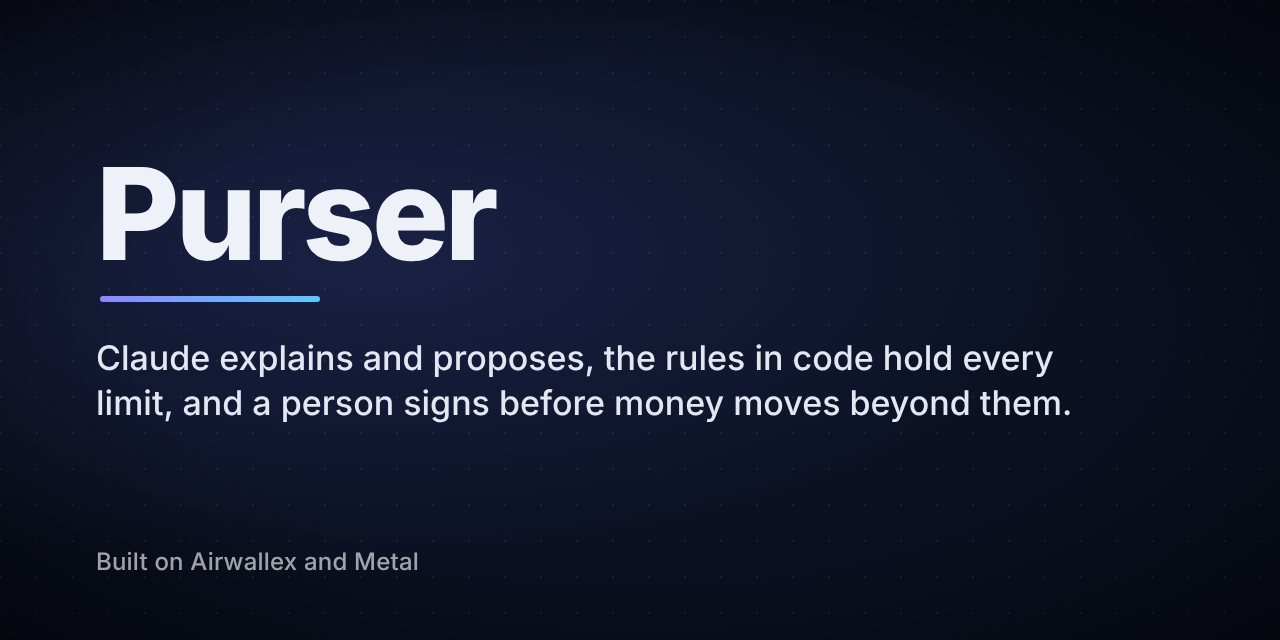
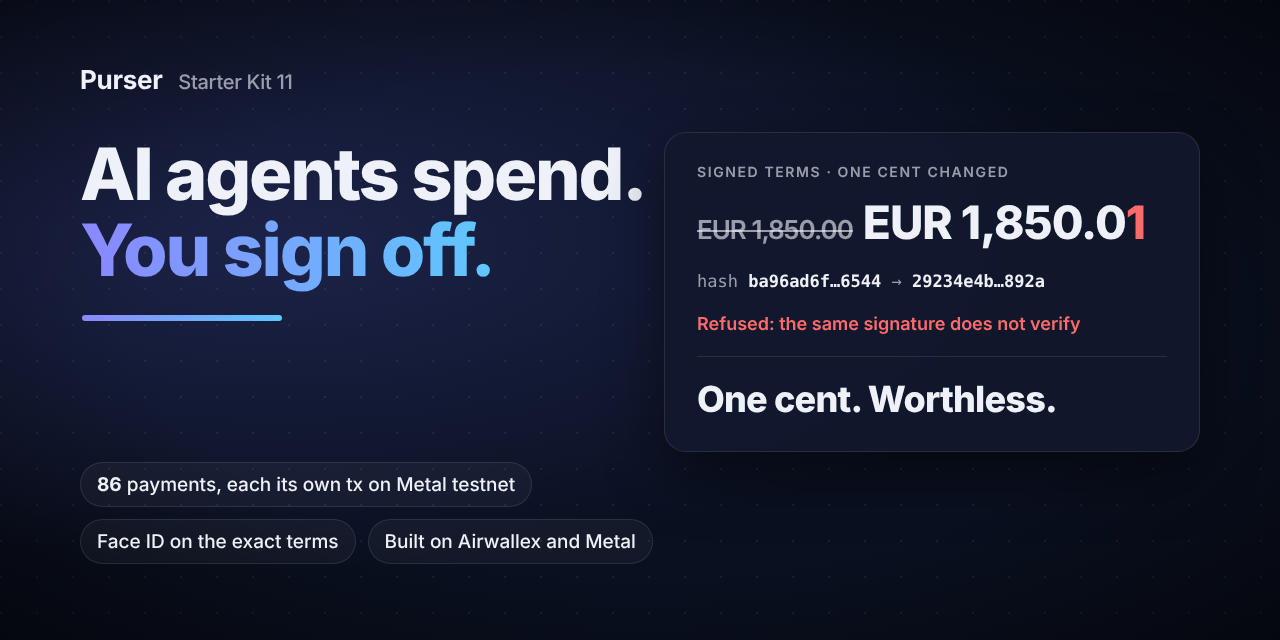
Social preview v2: 'AI agents spend. You sign off.', the one-cent card and three chips; reproducible from docs/media/social-preview.html (npm run social-preview), the 86 Metal payments counted from the record
Claude-Session: https://claude.ai/code/session_017bq3Bxz45idsGUgFJjRs4G

diff --git a/docs/media/social-preview.html b/docs/media/social-preview.html
@@ -1,0 +1,72 @@
+<!doctype html>
+<!--
+  Purser · GitHub social preview, 1280×640. Source of docs/media/social-preview.png: `npm run social-preview`
+  (src/cli/socialPreview.ts) fills the double-brace placeholders and renders this page with Playwright.
+
+  - metal.payments: the main run's payments on Metal, each its own transaction on Metal testnet, counted from
+    docs/demo/main-run.json (src/submission/socialPreview.ts, metalPaymentCount). Never typed here.
+  - The card is an example from a /try/sign test world: the fixed test proposal (EUR 1,850.00 to a test payee), the same
+    terms with the amount plus 0.01, and their SHA-256 terms hashes in an example world (as in the film's one-cent scene).
+    Nothing real moved.
+  - Text only: no logos of others.
+-->
+<html lang="en">
+<head>
+<meta charset="utf-8">
+<style>
+  @font-face { font-family: Inter; src: url("{{font}}") format("woff2"); font-weight: 100 900; }
+  :root { --bg: #0a1020; --ink: #eef1f8; --muted: rgba(238, 241, 248, .62); --line: rgba(255, 255, 255, .10);
+          --accent: #8b87ff; --accent2: #5ec8ff; --red: #ff6b6b; --green: #34d399; }
+  html, body { margin: 0; width: 1280px; height: 640px; }
+  body { background: var(--bg); color: var(--ink); font-family: Inter, sans-serif; position: relative; overflow: hidden;
+         background-image: radial-gradient(circle at 1px 1px, rgba(255, 255, 255, .07) 1px, transparent 0);
+         background-size: 36px 36px; }
+  .glow { position: absolute; inset: 0;
+          background: radial-gradient(ellipse at 22% 38%, rgba(110, 120, 255, .18), transparent 58%),
+                      radial-gradient(ellipse at center, transparent 55%, rgba(0, 0, 0, .55)); }
+  .brand { position: absolute; left: 80px; top: 64px; font-size: 26px; font-weight: 700; letter-spacing: -.3px; }
+  .brand span { color: var(--muted); font-weight: 500; margin-left: 10px; font-size: 20px; }
+  .head { position: absolute; left: 80px; top: 136px; width: 600px; }
+  h1 { margin: 0; font-size: 72px; line-height: 1.06; font-weight: 800; letter-spacing: -2.2px; }
+  h1 em { font-style: normal; background: linear-gradient(90deg, var(--accent), var(--accent2));
+          -webkit-background-clip: text; background-clip: text; color: transparent; }
+  .pen { margin: 26px 0 0 2px; width: 200px; height: 6px; border-radius: 3px;
+         background: linear-gradient(90deg, var(--accent), var(--accent2)); }
+  .chips { position: absolute; left: 80px; bottom: 76px; display: flex; gap: 12px; flex-wrap: wrap; width: 620px; }
+  .chip { font-size: 19px; font-weight: 500; padding: 10px 16px; border-radius: 999px; border: 1px solid var(--line);
+          background: rgba(255, 255, 255, .04); color: var(--ink); white-space: nowrap; }
+  .chip b { font-weight: 700; }
+  .card { position: absolute; right: 80px; top: 132px; width: 470px; padding: 30px 32px; border-radius: 22px;
+          background: rgba(17, 24, 44, .92); border: 1px solid var(--line); box-shadow: 0 24px 60px rgba(0, 0, 0, .45); }
+  .label { font-size: 14px; letter-spacing: 1.6px; text-transform: uppercase; color: var(--muted); font-weight: 600; }
+  .amount { margin-top: 14px; font-size: 46px; font-weight: 800; letter-spacing: -1px; }
+  .amount s { color: var(--muted); font-weight: 600; font-size: 26px; text-decoration-thickness: 2px; margin-right: 10px; }
+  .amount .cent { color: var(--red); }
+  .hash { margin-top: 18px; font: 500 17px/1.6 ui-monospace, SFMono-Regular, Menlo, monospace; color: var(--muted); }
+  .hash b { color: var(--ink); font-weight: 600; }
+  .refused { margin-top: 18px; font-size: 18px; color: var(--red); font-weight: 600; }
+  .worthless { margin-top: 22px; padding-top: 20px; border-top: 1px solid var(--line); font-size: 36px; font-weight: 800;
+               letter-spacing: -.8px; }
+</style>
+</head>
+<body>
+  <div class="glow"></div>
+  <div class="brand">Purser <span>Starter Kit 11</span></div>
+  <div class="head">
+    <h1>AI agents spend.<br><em>You sign off.</em></h1>
+    <div class="pen"></div>
+  </div>
+  <div class="chips">
+    <div class="chip"><b>{{metal.payments}}</b> payments, each its own tx on Metal testnet</div>
+    <div class="chip">Face ID on the exact terms</div>
+    <div class="chip">Built on Airwallex and Metal</div>
+  </div>
+  <div class="card">
+    <div class="label">Signed terms · one cent changed</div>
+    <div class="amount"><s>EUR 1,850.00</s>EUR 1,850.0<span class="cent">1</span></div>
+    <div class="hash">hash <b>ba96ad6f…6544</b> → <b>29234e4b…892a</b></div>
+    <div class="refused">Refused: the same signature does not verify</div>
+    <div class="worthless">One cent. Worthless.</div>
+  </div>
+</body>
+</html>

diff --git a/test/social-preview.test.ts b/test/social-preview.test.ts
@@ -1,0 +1,49 @@
+import { readFileSync } from "node:fs";
+import { describe, expect, it } from "vitest";
+import { trySignExample } from "../src/film/premiere.js";
+import { SOCIAL_HTML, SOCIAL_PNG, SOCIAL_SIZE, loadRecord, metalPaymentCount, socialPreviewHtml } from "../src/submission/socialPreview.js";
+
+// The GitHub social preview: its figures come from the record and the /try/sign code, not typed into the template.
+const root = new URL("../", import.meta.url);
+const template = readFileSync(new URL(SOCIAL_HTML, root), "utf8");
+const record = loadRecord(root);
+const filled = socialPreviewHtml(template, record, "data:font/woff2;base64,");
+const text = (html: string) => html.replace(/<!--[\s\S]*?-->/g, "").replace(/<style[\s\S]*?<\/style>/, "").replace(/<[^>]+>/g, " ").replace(/\s+/g, " ");
+
+describe("social preview", () => {
+  it("counts 86 payments on Metal testnet in the main run, each with its own tx", () => {
+    expect(metalPaymentCount(record)).toBe(86);
+  });
+
+  it("shows that count on its chip, and the template types no count of its own", () => {
+    expect(text(filled)).toContain(`${metalPaymentCount(record)} payments, each its own tx on Metal testnet`);
+    expect(text(template)).toContain("{{metal.payments}} payments");
+    expect(text(template)).not.toMatch(/\b86\b/);
+  });
+
+  it("refuses to render when a figure is missing", () => {
+    expect(() => socialPreviewHtml(template, { snapshot: { flows: [] } }, "x")).toThrow(/metal\.payments/);
+  });
+
+  it("carries the hook, the one cent and the /try/sign example terms (amounts and hashes from the page's code)", () => {
+    const t = text(filled);
+    const ex = trySignExample();
+    const eur = (v: string | number) => `EUR ${Number(v).toLocaleString("en-US", { minimumFractionDigits: 2 })}`;
+    expect(t).toContain("AI agents spend. You sign off.");
+    expect(t).toContain("One cent. Worthless.");
+    expect(t).toContain(eur(ex.p.amount));
+    expect(filled.replace(/<[^>]+>/g, "")).toContain(eur(ex.tamperedAmount));
+    expect(t).toContain(`${ex.hash.slice(0, 8)}…${ex.hash.slice(-4)}`);
+    expect(t).toContain(`${ex.tamperedHash.slice(0, 8)}…${ex.tamperedHash.slice(-4)}`);
+    expect(template).toMatch(/example from a \/try\/sign test world/);
+  });
+
+  it("uses text only: no images or logos", () => {
+    expect(template.replace(/<!--[\s\S]*?-->/g, "")).not.toMatch(/<img|<svg|logo|url\(https?:/i);
+  });
+
+  it("is rendered at 1280×640", () => {
+    const png = readFileSync(new URL(SOCIAL_PNG, root));
+    expect([png.readUInt32BE(16), png.readUInt32BE(20)]).toEqual([SOCIAL_SIZE.width, SOCIAL_SIZE.height]);
+  });
+});

diff --git a/src/submission/socialPreview.ts b/src/submission/socialPreview.ts
@@ -1,0 +1,35 @@
+// The GitHub social preview (1280×640): docs/media/social-preview.html is the source, docs/media/social-preview.png the
+// rendered image (`npm run social-preview`). Every figure on it is filled in here from the main run's record; the
+// template types none. test/social-preview.test.ts checks the count and the template.
+
+import { readFileSync } from "node:fs";
+
+export const SOCIAL_HTML = "docs/media/social-preview.html";
+export const SOCIAL_PNG = "docs/media/social-preview.png";
+export const SOCIAL_SIZE = { width: 1280, height: 640 } as const;
+const MAIN_RUN = "docs/demo/main-run.json";
+
+interface Flow { rail?: string; refused?: boolean; count?: number; proof?: { href?: string } }
+interface Record { snapshot: { flows: Flow[] } }
+
+/**
+ * The main run's payments on Metal, each its own transaction on Metal testnet: the record's flows on the Metal rail that
+ * went through and carry a testnet tx link, counted (`count` per row). The same count as the film's 06-metal card.
+ */
+export function metalPaymentCount(r: Record): number {
+  return r.snapshot.flows
+    .filter((f) => f.rail === "metal" && !f.refused && /^https:\/\/testnet\.metal/.test(f.proof?.href ?? ""))
+    .reduce((k, f) => k + (f.count ?? 1), 0);
+}
+
+/** The template with its {{placeholders}} filled from the record; throws when a figure is missing. */
+export function socialPreviewHtml(template: string, record: Record, fontUrl: string): string {
+  const facts: { [k: string]: string } = { "metal.payments": String(metalPaymentCount(record) || ""), font: fontUrl };
+  return template.replace(/\{\{([\w.]+)\}\}/g, (_, key: string) => {
+    const v = facts[key];
+    if (!v) throw new Error(`social preview: no value for {{${key}}}`);
+    return v;
+  });
+}
+
+export const loadRecord = (root: URL): Record => JSON.parse(readFileSync(new URL(MAIN_RUN, root), "utf8")) as Record;

diff --git a/src/cli/socialPreview.ts b/src/cli/socialPreview.ts
@@ -1,0 +1,18 @@
+// npm run social-preview: renders docs/media/social-preview.html (figures from the main run's record) to
+// docs/media/social-preview.png at 1280×640 with Playwright, as the deck and the QR code are rendered.
+
+import { readFileSync, writeFileSync } from "node:fs";
+import { chromium } from "playwright";
+import { SOCIAL_HTML, SOCIAL_PNG, SOCIAL_SIZE, loadRecord, socialPreviewHtml } from "../submission/socialPreview.js";
+
+const root = new URL("../../", import.meta.url);
+const font = `data:font/woff2;base64,${readFileSync(new URL("src/ui/inter.woff2", root)).toString("base64")}`;
+const html = socialPreviewHtml(readFileSync(new URL(SOCIAL_HTML, root), "utf8"), loadRecord(root), font);
+
+const browser = await chromium.launch();
+const page = await browser.newPage({ viewport: SOCIAL_SIZE, deviceScaleFactor: 1 });
+await page.setContent(html, { waitUntil: "load" });
+await page.evaluate(() => document.fonts.ready);
+writeFileSync(new URL(SOCIAL_PNG, root), await page.screenshot({ type: "png" }));
+await browser.close();
+console.log(`social preview: ${SOCIAL_PNG} (${SOCIAL_SIZE.width}×${SOCIAL_SIZE.height})`);

diff --git a/docs/video/premiere-script.md b/docs/video/premiere-script.md
@@ -23,7 +23,7 @@ How to cut it, where the music goes and what Max records: [README.md](README.md)
[2 lines of base64/hex data omitted]
 | 2:04–2:16 | `12-why-face-id.mp4` (12 s) | The question, then the answer in one sentence. | **Why Face ID, not a password?**<br>A password is the same for every payment; Face ID signs the hash of these exact terms: change anything after signing, and the signature is worthless. | Why Face ID, and not a password?<br>A password is the same for every payment; Face ID signs these exact terms: change anything, and the signature is worthless. | No figure. The reason: docs/phone-approval.md ("The passkey signs the SHA-256 of the exact terms … any change after signing makes it worthless"); README.md, Words ("the CFO's Face ID signs that hash"). "Password", not "PIN": a passkey may itself be unlocked with the device's PIN, or Touch ID (README.md, Try it yourself); what counts is that it signs these exact terms, so the film does not say Face ID is required. |
-| 2:16–2:32 | `13-specs.mp4` (16 s) | Four fast cards, the big figures counting up to the record's: the tests, the hash-chained audit log, Metal's refusal and the CFO's rejection side by side, decisions by Claude. | **2342** tests, all passing (npx vitest run · CI runs the same suite on every push)<br>**412** audit rows, hash-chained (chain intact · check it yourself: npm run verify)<br>**1 + 1** Metal refused 1 purchase over its cap; the CFO rejected 1 proposal. (in the main run)<br>**24/24** decisions by Claude (Sourcing 11 · Support 4 · Treasury 9 · 0 fallbacks) | All tests passing.<br>An audit log, hash-chained: check it yourself.<br>Metal refused one purchase over its cap; the CFO rejected one proposal.<br>Twenty-four of twenty-four decisions by Claude. | tests = `2342`: README.md's test line, read when the film is built (CI runs the same suite)<br>files = `247`: README.md's test line<br>auditRows = `412`: record `snapshot.audit.rows`, with `intact: true`<br>stopped = `2`: record `ledger.events`: Metal's refusals at the cap (`upstream.refused`, `mandate_cap_exceeded`), the CFO's rejections (`proposal.rejected`), Airwallex's declines (`card.charge_declined`); a refusal of a just-replaced mandate (`mandate_revoked`) is not a limit<br>stoppedMetal = `1`: record `ledger.events` `upstream.refused` by Metal, `mandate_cap_exceeded`<br>stoppedCfo = `1`: record `ledger.events` `proposal.rejected` with Max's passkey<br>stoppedAirwallex = `0`: record `ledger.events` `card.charge_declined`<br>decisions = `24`: record `snapshot.agent_stats[].decisions` (summed)<br>byClaude = `24`: record `snapshot.agent_stats[].by_claude` (summed)<br>fallbacks = `0`: record `snapshot.agent_stats[].fallback` (summed)<br>sourcing = `11`: record `snapshot.agent_stats` (sourcing)<br>support = `4`: record `snapshot.agent_stats` (support)<br>treasury = `9`: record `snapshot.agent_stats` (treasury) |
+| 2:16–2:32 | `13-specs.mp4` (16 s) | Four fast cards, the big figures counting up to the record's: the tests, the hash-chained audit log, Metal's refusal and the CFO's rejection side by side, decisions by Claude. | **2348** tests, all passing (npx vitest run · CI runs the same suite on every push)<br>**412** audit rows, hash-chained (chain intact · check it yourself: npm run verify)<br>**1 + 1** Metal refused 1 purchase over its cap; the CFO rejected 1 proposal. (in the main run)<br>**24/24** decisions by Claude (Sourcing 11 · Support 4 · Treasury 9 · 0 fallbacks) | All tests passing.<br>An audit log, hash-chained: check it yourself.<br>Metal refused one purchase over its cap; the CFO rejected one proposal.<br>Twenty-four of twenty-four decisions by Claude. | tests = `2348`: README.md's test line, read when the film is built (CI runs the same suite)<br>files = `248`: README.md's test line<br>auditRows = `412`: record `snapshot.audit.rows`, with `intact: true`<br>stopped = `2`: record `ledger.events`: Metal's refusals at the cap (`upstream.refused`, `mandate_cap_exceeded`), the CFO's rejections (`proposal.rejected`), Airwallex's declines (`card.charge_declined`); a refusal of a just-replaced mandate (`mandate_revoked`) is not a limit<br>stoppedMetal = `1`: record `ledger.events` `upstream.refused` by Metal, `mandate_cap_exceeded`<br>stoppedCfo = `1`: record `ledger.events` `proposal.rejected` with Max's passkey<br>stoppedAirwallex = `0`: record `ledger.events` `card.charge_declined`<br>decisions = `24`: record `snapshot.agent_stats[].decisions` (summed)<br>byClaude = `24`: record `snapshot.agent_stats[].by_claude` (summed)<br>fallbacks = `0`: record `snapshot.agent_stats[].fallback` (summed)<br>sourcing = `11`: record `snapshot.agent_stats` (sourcing)<br>support = `4`: record `snapshot.agent_stats` (support)<br>treasury = `9`: record `snapshot.agent_stats` (treasury) |
 | 2:32–2:45 | `14-real.mp4` (13 s) | Two columns: real (test money) and ours or simulated. | **Real** (test money only): the Airwallex sandbox, Metal testnet, Claude, Face ID<br>**Ours or simulated:** the suppliers, the customer, the merchant, the second approver: a labelled test passkey | Real: the Airwallex sandbox, Metal testnet, Claude, and Face ID.<br>Ours, or simulated: the suppliers, the customer, the merchant, and the second approver, a labelled test passkey. | No figure. README.md, "What is real, what is mock"; docs/claims.md (the second approver: `SECOND_APPROVER` in src/config/brand.ts). |
 | 2:45–2:59 | `15-close.mp4` (14 s) | **Slot.** Max on camera with his name (overlay `15-close.png`), or his voice over the rendered card with the closing line.<br>Recording: Max on camera, or his voice only (docs/video/opnames-max.md, 2). | Fallback card: A price shock, a dispute, a euro bill. Claude decided, the rails and the code held the limits, and I signed only what went beyond them. Purser, Starter Kit 11.<br>Name (on camera): Max Geurtsen · Purser · Starter Kit 11 | **Max:** A price shock, a dispute, a euro bill.<br>**Max:** Claude decided, the rails and the code held the limits, and I signed only what went beyond them.<br>**Max:** Purser, Starter Kit 11. | No figure. Max's closing (docs/video/max-opening-close.md, "Slot"); what it says of the run: see the 13-specs and 05–09 rows, and the Face ID decisions below. |
 | 2:59–3:12 | `16-end.mp4` (13 s) | End card: “Try it yourself” and the /try/sign address, test money; after four seconds it gives way to the end credits (9 s, text only, no logos): thank you, built by, voice and music, test money only. | **Try it yourself** · https://kit11.max-31b.workers.dev/try/sign<br>Test money only: the Airwallex sandbox and Metal testnet.<br>Purser · Starter Kit 11<br>End credits: Thank you Airwallex · Metal · Anthropic (Claude) · and the hackathon organisers and mentors · Built by Max Geurtsen · “Voice: Max Geurtsen · Music: Techno Fest Vibes (Mixkit)” (or, with an AI voice, clip `16-end-ai-voice.mp4`: “Voice-over: an AI-generated voice · opening and closing: Max Geurtsen · Music: Techno Fest Vibes (Mixkit)”) · Test money only | — | No figure. The address: the hosted /try/sign (live since 4 November). The credits: who the film thanks and who made it (Max, premiere v3); the music: Mixkit track 124, Mixkit Stock Music Free License. |
@@ -32,7 +32,7 @@ How to cut it, where the music goes and what Max records: [README.md](README.md)
 
 - **6 seconds from Face ID to PAID:** record `ledger.events`: 11:31:18.218 (Face ID, seq 360) to 11:31:24.283 (PAID, seq 366), rounded. The run log's timings say the same. PAID is the sandbox's status, and the settlement is simulated: Purser moves the transfer to SENT and then PAID itself, through Airwallex's sandbox simulation API (`settleInSandbox`, src/executors/invoicePayment.ts). The scene says so on screen and in the voice-over, and points to /proof instead of asking anyone to look the sandbox id up.
 - **Metal 1 + the CFO 1:** the spec card says the two stops as what they were (Metal refused a purchase over its cap; the CFO rejected a proposal), with Airwallex 0; together the 2 stopped at a limit that the site, the README and the video script count (`test/premiere.test.ts` compares it with `src/redesign/run.ts`). Not in the film, because it is another run's: the line the site shows below that figure, about the separate TAP run of 2 November.
-- **The tests:** the README's test line, read when the film is built (2342 tests in 247 files when this file was generated). Render the spec cards again after the README's line changes: `npm run video -- 13-specs`.
+- **The tests:** the README's test line, read when the film is built (2348 tests in 248 files when this file was generated). Render the spec cards again after the README's line changes: `npm run video -- 13-specs`.
 - **Max's closing line** ("Claude decided … I signed only what went beyond them"): 24 of 24 decisions by Claude; 5 decisions with Max's Face ID (record `ledger.events` `proposal.approved` and `proposal.rejected` with Max's passkey (proposals counted once)).
 - **Face ID (08) is a reconstruction:** the rendered approval sheet carries P-0005's exact terms from the record, and says on screen that it is a reconstruction and when the real Face ID was (the record's `proposal.approved`). Max's own recording of a real Face ID can still be laid in with `--slot`.
 - **Face ID, not a password:** the reason is the docs' own (docs/phone-approval.md); "password", because a passkey may itself be unlocked with a PIN. The film does not say the server proves Face ID: /try/sign checks no attestation (docs/claims.md), so it says the server checks the signature.

diff --git a/docs/claims.md b/docs/claims.md
@@ -55,7 +55,7 @@ displays was not checked.
 | Red team | 39 of 39 failed, 0 inconclusive: 37 stopped before anything moved, 2 found afterwards (a hidden card charge by the reconciliation, a rewritten log row by `npm run verify`); 35 scripted attacks and 4 documents written by Claude Opus as the attacker, in a throwaway test world (30 Oct). Then three runs in a row on 31 Oct: 118 of 120 failed, 2 inconclusive (bank-change notices the classifier read as data corrections: nothing was paid or changed, but not counted as stopped; [runs](runs/redteam-2026-10-31/README.md)) | `docs/redteam/report.json` (30 Oct; `caught` per attempt) | The harness now gives every attempt an outcome, and inconclusive never counts as blocked. The task card is tested at a hotel while still fresh (`MERCHANT_CATEGORY_NOT_ALLOWED`). The revoked agent is named correctly. The film's "thirty-four" is now thirty-nine. |
 | Duplicate invoices | A paid invoice sent again as "btx-dup" or with an en dash is refused | `test/invoice-duplicate-key.test.ts`; red team document 4 | Found by the red team and fixed. |
 | Scenario Lab | 18 of 18 as expected | `docs/lab/results.json` | hardening.md said 12. |
-| Tests | 2342 in 247 files, all passing (5 Nov) | `npx vitest run` | Was 2291 in 245 files (4 Nov, tag v1.0-submission); 1074 in 136 files (31 Oct). |
+| Tests | 2348 in 248 files, all passing (5 Nov) | `npx vitest run` | Was 2291 in 245 files (4 Nov, tag v1.0-submission); 1074 in 136 files (31 Oct). |
 | `/try/sign`: "Try it yourself: sign with your own Face ID" | A test world per visitor for one hour, with stand-in executors (nothing reaches Airwallex or Metal) and fixed-text proposals (no model call); its own store (Durable Object instance `try-sign`, `ts_*` tables), apart from the CFO's. Real: the visitor's passkey signature over the SHA-256 of the canonical terms, and the Worker's check with the D20 verifier against the public key the visitor's device registered. Not proven: which authenticator made the key (attestation "none": a software key verifies too), so the page never says the server proved Face ID. A test passkey is not enrolled anywhere else, so it approves nothing real and opens no session. Behind `TRY_SIGN_ENABLED`; **live since 4 November 2026** (the Worker deploy of commit `852b323`, flag on) at https://kit11.max-31b.workers.dev/try/sign | `worker/src/trySign.ts`; `test/try-sign.test.ts`, `test/try-sign-separation.test.ts`; `test/browser/trysign.check.ts` (360, 390 and 1440 px, light and dark, in CI since 5 November; the layout checked after signing and after the tamper: no wider than the screen, nothing outside its card; with `--live` against the hosted site, green on 4 November: passkey made, the waiting proposal signed and verified, the tampered amount refused, the blocked one without a button) | New, 4 November |
 | `/health` for anyone | Between live runs (no runner sync for 30 minutes and no live run declared with the Worker variable `LIVE_RUN`): 200, "Recorded demo · the live runner runs during live runs", with the alarm codes that stood at the runner's last sync. During a live run: 503 on `runner_down` or any alarm, as before. `/health/live` is that alarm at all times, for a monitor and the CFO | `src/ops/publicHealth.ts` (`publicStatus`, `LIVE_RUN_EXPECTED_MS`); `test/health.test.ts` | New, 4 November; live with the next deploy (until then `/health` answers 503 `runner_down` whenever the runner is off) |
 | Speed limit (Sourcing agent) | 30 payments a minute, 4.00 test USD an hour | `src/config/policy.ts` `VELOCITY` | Kept on purpose, above the busiest minute of the recorded run (18). |

diff --git a/README.md b/README.md
@@ -4,7 +4,7 @@
 **[Sign one yourself](https://kit11.max-31b.workers.dev/try/sign)** · Film, 3 minutes: <!-- VIDEO-LINK -->_the link is
 added on submission day_ · [The run, replayed](https://kit11.max-31b.workers.dev/watch)
 
-[![CI](https://github.com/agamemnon-coder/x402-business-agents/actions/workflows/ci.yml/badge.svg?branch=main)](https://github.com/agamemnon-coder/x402-business-agents/actions/workflows/ci.yml?query=branch%3Amain) [![License: MIT](https://img.shields.io/badge/license-MIT-blue)](LICENSE) [![Tests: 2342 passing](https://img.shields.io/badge/tests-2342%20passing-brightgreen)](#run-it-in-3-commands) [![Live demo: /try/sign](https://img.shields.io/badge/live%20demo-%2Ftry%2Fsign-7c6cff)](https://kit11.max-31b.workers.dev/try/sign) ![Metal testnet · Airwallex sandbox](https://img.shields.io/badge/Metal%20testnet%20%C2%B7%20Airwallex%20sandbox-test%20money%20only-555)
+[![CI](https://github.com/agamemnon-coder/x402-business-agents/actions/workflows/ci.yml/badge.svg?branch=main)](https://github.com/agamemnon-coder/x402-business-agents/actions/workflows/ci.yml?query=branch%3Amain) [![License: MIT](https://img.shields.io/badge/license-MIT-blue)](LICENSE) [![Tests: 2348 passing](https://img.shields.io/badge/tests-2348%20passing-brightgreen)](#run-it-in-3-commands) [![Live demo: /try/sign](https://img.shields.io/badge/live%20demo-%2Ftry%2Fsign-7c6cff)](https://kit11.max-31b.workers.dev/try/sign) ![Metal testnet · Airwallex sandbox](https://img.shields.io/badge/Metal%20testnet%20%C2%B7%20Airwallex%20sandbox-test%20money%20only-555)
 
 **A supplier doubles its price. A customer disputes 12 orders. A €240 bill is due in euros.** Three Claude agents run a
 small data business on 20 test dollars through Metal and Airwallex; the CFO signed 5 times with Face ID. One live run,
@@ -117,7 +117,7 @@ npm test          # the full suite, on stand-ins
 npm run judge     # the main run's replay, the CFO dashboard and the Scenario Lab, offline
 ```
 
-**2342 tests in 247 files, all passing** (`npx vitest run`, 5 November; 2291 in 245 at the tag `v1.0-submission`); CI runs the same suite on
+**2348 tests in 248 files, all passing** (`npx vitest run`, 5 November; 2291 in 245 at the tag `v1.0-submission`); CI runs the same suite on
 every push. Running it live (sandbox keys, a Metal RPC): [docs/run-it.md](docs/run-it.md).
 
 ## Words

diff --git a/docs/submission/demo-day.md b/docs/submission/demo-day.md
@@ -44,7 +44,7 @@ your repository with setup instructions."
 | Finance and product value | 0:15 who and what (a small company that sells live stock data per query; the rule: inside its limits an agent pays alone, beyond them the CFO signs); 2:05 the core line | [/](https://kit11.max-31b.workers.dev/); deck slides 2–3 |
 | Airwallex relevance and financial context | 0:40, beat 3: FX for only the shortfall, SWIFT PAID 6 s after Face ID (simulated settlement) | conversion `3ca88196-05da-4d88-9caa-796f03704636`; transfer `03360bfa-afce-457b-89d1-e1097fbe3985`; authorization `01a1a12f-4113-7000-b76d-014677710007` |
[1 lines of base64/hex data omitted]
-| Technical execution | 1:50: every id published on /proof, the Metal ones on chain and checkable; `npm run verify`; 2342 tests | [/proof](https://kit11.max-31b.workers.dev/proof); 412 audit rows, hash-chained |
+| Technical execution | 1:50: every id published on /proof, the Metal ones on chain and checkable; `npm run verify`; 2348 tests | [/proof](https://kit11.max-31b.workers.dev/proof); 412 audit rows, hash-chained |
 | "(1) a working end-to-end workflow for a clear user" | The whole run: 0:40–1:50 | [/watch](https://kit11.max-31b.workers.dev/watch) |
 | "(2) Airwallex used for a necessary financial action" | Beat 3: the euro licence paid by SWIFT, euros bought by FX | transfer `03360bfa…3985` |
 | "(3) financial context influencing what the agent decides" | Beat 1: the price rise; Treasury's two options within the same 20.00: A, Sourcing's cap to 0.04 and our price stays 0.05; B, the same cap and our price up to 0.07 | P-0002 (option A, signed), P-0003 (option B, superseded) |

diff --git a/docs/submission/release-notes.md b/docs/submission/release-notes.md
@@ -39,7 +39,7 @@ Record: [docs/demo/main-run.json](../demo/main-run.json); log: [docs/runs/2026-1
 - 5 November: the stops are said in one sentence everywhere ("Metal refused 1 purchase over its cap; the CFO rejected 1
   proposal."), and the form's Description is short (the long text is
   [long-description.md](long-description.md)). /try/sign stays within a phone's width after the tamper, and the
-  premiere film has its animations. 2342 tests in 247 files, all passing.
+  premiere film has its animations. 2348 tests in 248 files, all passing.
 
 ## Real, and ours
 
